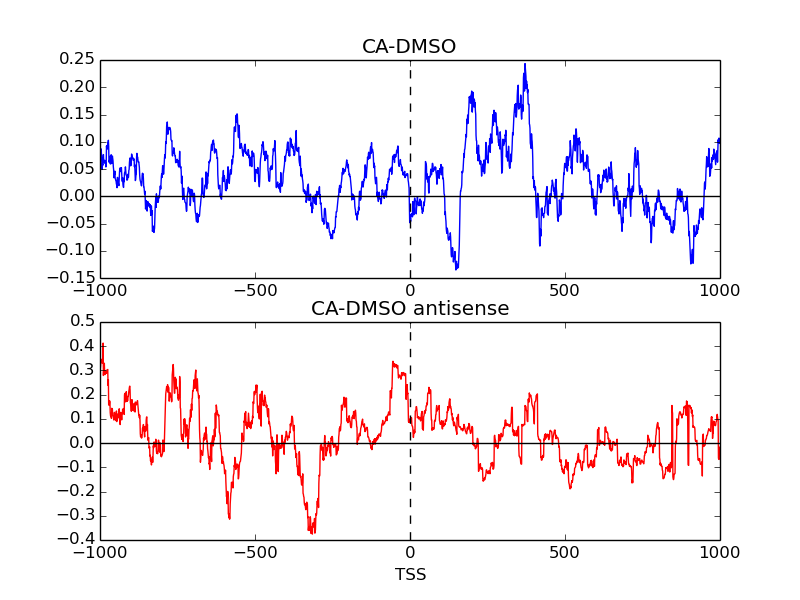
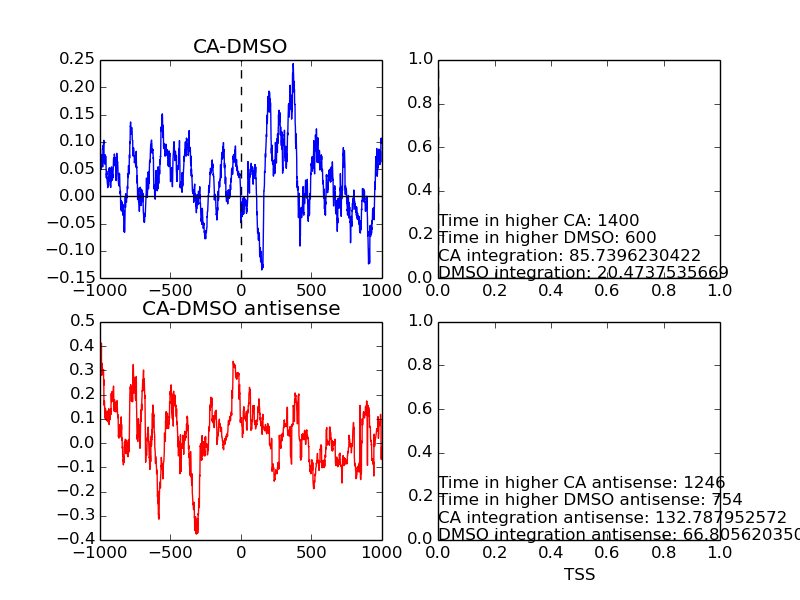
updates

Changed region(s): [[0.125, 0.06, 1.0, 0.99], [0.2188, 0.06, 0.375, 0.09], [0.2812, 0.9, 0.3438, 0.93]]

diff --git a/src/metagene_TSS.py b/src/metagene_TSS.py
@@ -179,16 +179,14 @@ def run(file1,file2,file3):
     
     F1 = plt.figure()
     x2 = np.arange(-window,window,1)
-    ax1 = F1.add_subplot(2,2,1)
+    ax1 = F1.add_subplot(2,1,1)
     ax1.plot(x2,CAarray-DMSOarray)
     ax1.set_title('CA-DMSO')
-    ax2 = F1.add_subplot(2,2,2)
-    ax2.text(0,0,"Time in higher CA: " + str(CAtime) + "\nTime in higher DMSO: " + str(DMSOtime) + "\nCA integration: " + str(CAtot) + "\nDMSO integration: " + str(DMSOtot))
-    ax3 = F1.add_subplot(2,2,3)
-    ax3.plot(x2,CAantiarray-DMSOantiarray,color='r')
-    ax3.set_title('CA-DMSO antisense')
-    ax4 = F1.add_subplot(2,2,4)
-    ax4.text(0,0,"Time in higher CA antisense: " + str(CAtimea) + "\nTime in higher DMSO antisense: " + str(DMSOtimea) + "\nCA integration antisense: " + str(CAtota) + "\nDMSO integration antisense: " + str(DMSOtota))
+    ax1.text(500,0.225,"Time in higher CA: " + str(CAtime) + "\nTime in higher DMSO: " + str(DMSOtime) + "\nCA integration: " + str(CAtot) + "\nDMSO integration: " + str(DMSOtot))
+    ax2 = F1.add_subplot(2,1,2)
+    ax2.plot(x2,CAantiarray-DMSOantiarray,color='r')
+    ax2.set_title('CA-DMSO antisense')
+    ax2.text(500,0.4,"Time in higher CA antisense: " + str(CAtimea) + "\nTime in higher DMSO antisense: " + str(DMSOtimea) + "\nCA integration antisense: " + str(CAtota) + "\nDMSO integration antisense: " + str(DMSOtota))
     #plt.legend(['CA-DMSO','DMSO-CA antisense'], loc='upper left',fontsize=8)
     plt.xlabel('TSS')
     ax1.axvline(x=0.,color='k',ls='dashed')
